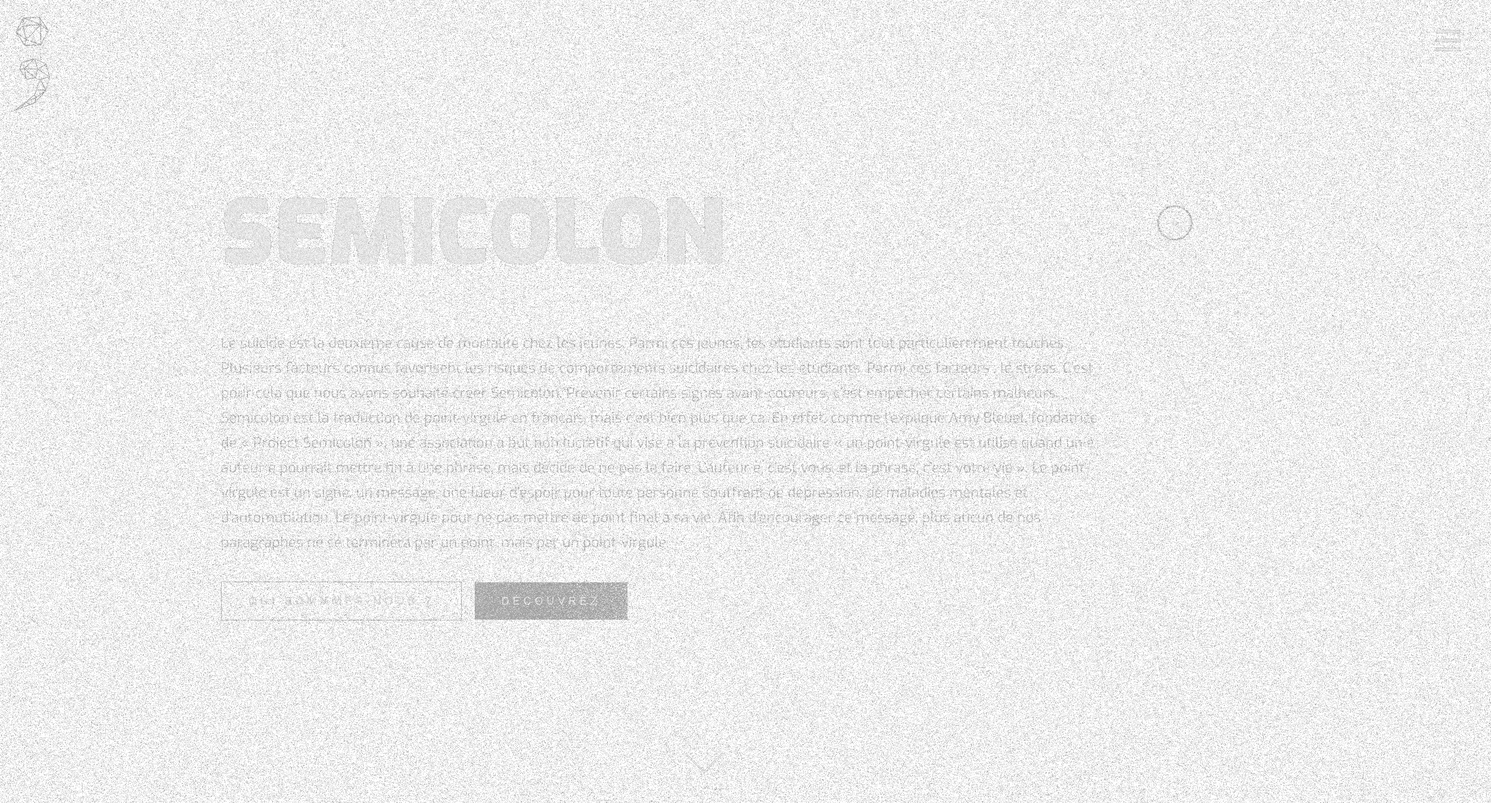
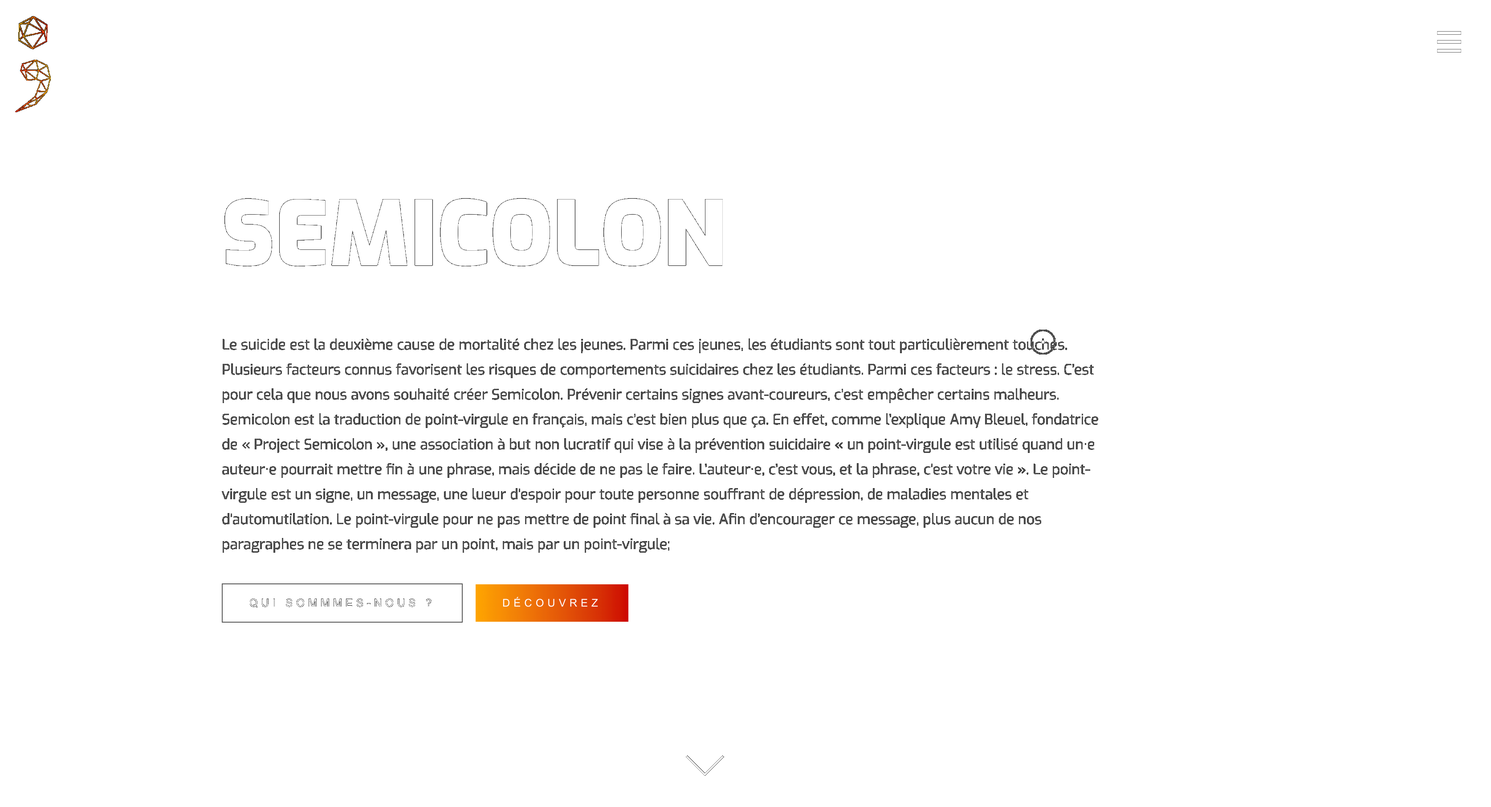
:bug: fix

Changed region(s): [[0.0, 0.0, 1.0, 1.0]]

diff --git a/components/index/Projects.vue b/components/index/Projects.vue
@@ -21,14 +21,14 @@
 
       <div class="card-project">
         <div class="project-description">
-          <span class="number">03</span>
+          <span class="number">02</span>
           <div class="line"></div>
-          <h3>Semicolon</h3>
-          <p>Un projet d'école dont le but était de sensibiliser sur une problématique étudiante.</p>
-          <a href="#" target="_blank" class="links">voir le projet <nuxt-img class="img-links" src="/images/logos/arrow.svg"/></a>
+          <h3>zLawyer</h3>
+          <p><a class="links" href="https://www.zlawyer.fr/logiciel-avocats/" target="_blank">zLawyer</a> est un logiciel de gestion de cabinets d'avocats. Ils m'ont contacter pour refonte leur site afin de vendre et présenter leur logiciel. <br>J'ai fait le projet en partenariat avec <a class="links" href="https://august1.dev" target="_blank">Augustin Briolon</a></p>
+          <a href="https://www.zlawyer.fr/logiciel-avocats/" target="_blank" class="links">voir le projet <nuxt-img class="img-links" src="/images/logos/arrow.svg"/></a>
         </div>
         <div class="project-image">
-          <nuxt-img preload src="/images/projects/semicolon.png" />
+          <nuxt-img preload src="/images/projects/zLawyer.png" />
           <div class="rectangle-image"></div>
         </div>
       </div>
@@ -78,6 +78,7 @@ data() {
       img{
         width: 93%;
         z-index: 3;
+        @include filter-image;
       }
       .rectangle-image{
         position: absolute;

diff --git a/components/projects/Projects.vue b/components/projects/Projects.vue
@@ -94,6 +94,10 @@ data() {
       @include screen-m {
         width: 100%;
       }
+
+      img{
+        @include filter-image;
+      }
     }
     .project-description{
       h3{

diff --git a/assets/scss/abstracts/_mixins.scss b/assets/scss/abstracts/_mixins.scss
@@ -27,3 +27,8 @@
         background-image: url("~static/images/background-mobile.png");
     }
 }
+
+@mixin filter-image {
+    opacity: 50%;
+    filter: brightness(1.2);
+}
